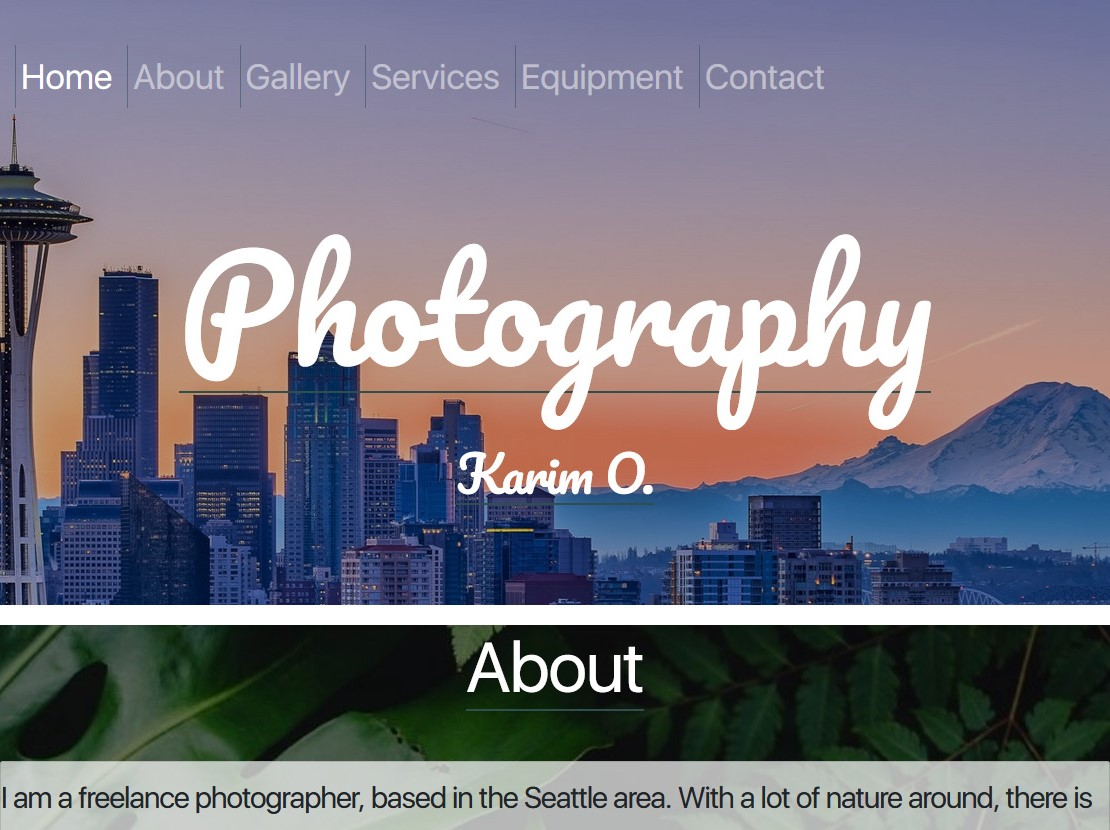
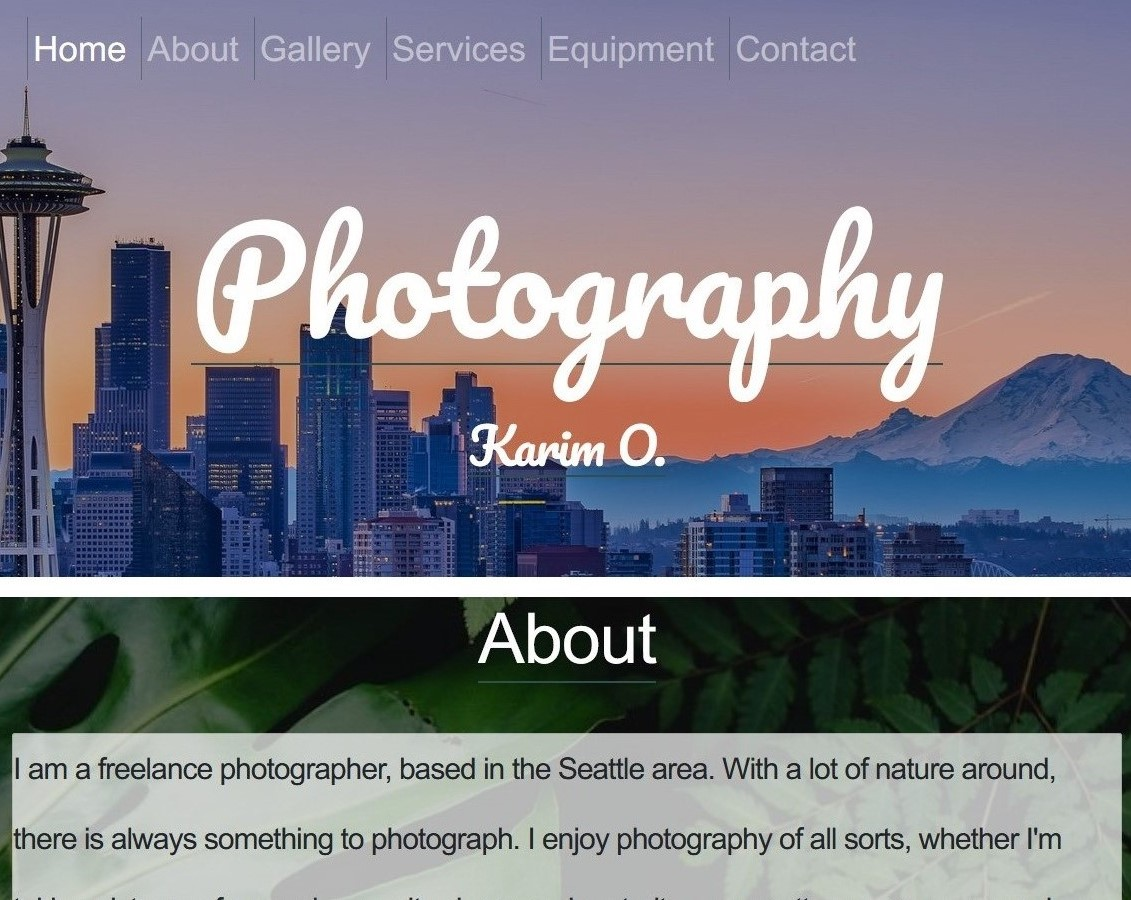
removed usage of san fran font

diff --git a/landingpage-d3/landingpage.html b/landingpage-d3/landingpage.html
@@ -14,7 +14,7 @@
     <link href="https://cdnjs.cloudflare.com/ajax/libs/twitter-bootstrap/4.5.0/css/bootstrap.min.css" rel="stylesheet">
     <!--social media-->
     <link rel="stylesheet" href="https://cdnjs.cloudflare.com/ajax/libs/font-awesome/4.7.0/css/font-awesome.min.css">
-    <link href='https://fonts.googleapis.com/css?family=Pacifico' rel='stylesheet' type='text/css'>
+    <link rel="stylesheet" type="text/css" href="//fonts.googleapis.com/css?family=Pacifico" />
     <link rel="stylesheet" href="style.css" type="text/css" />
 </head>
 
@@ -58,10 +58,10 @@
 
 
                 <div class="row" style="margin-top: 100px;">
-                    <h1 class="display-4" style="font-size: 1400%; font-family: 'Pacifico';">Photography</h1>
+                    <h1 class="display-4" style="font-size: 1400%; font-family: Pacifico;">Photography</h1>
                 </div>
                 <div class="row" style="margin-top: 50px;">
-                    <h1 style="font-size: 500%; font-family: 'Pacifico';">Karim O.</h4>
+                    <h1 style="font-size: 500%; font-family: Pacifico;">Karim O.</h4>
                 </div>
             </div>
         </div>

diff --git a/musicplayer-d9/style.css b/musicplayer-d9/style.css
@@ -1,14 +1,10 @@
+@import url(https://fonts.googleapis.com/css?family=Roboto:100);
 body,
 html {
     background: rgb(131, 58, 180);
     background: linear-gradient(90deg, rgba(131, 58, 180, 1) 0%, rgba(253, 29, 29, 1) 50%, rgba(252, 176, 69, 1) 100%);
     height: 100%;
-    font-family: 'SF Display';
-}
-
-@font-face {
-    font-family: "SF Display";
-    src: url("https://sf.abarba.me/SF-UI-Display-Regular.otf");
+    font-family: 'Roboto';
 }
 
 .card {

diff --git a/userprofile-d6/style.css b/userprofile-d6/style.css
@@ -5,15 +5,7 @@ html {
     -moz-box-sizing: border-box;
     box-sizing: border-box;
     height: 100%;
-    font-family: 'SF Display';
-}
-
-
-/** Regular */
-
-@font-face {
-    font-family: "SF Display";
-    src: url("https://sf.abarba.me/SF-UI-Display-Regular.otf");
+    font-family: 'Helvetica';
 }
 
 *,

diff --git a/payform-d2/style.css b/payform-d2/style.css
@@ -1,11 +1,6 @@
 body {
     background-color: yellowgreen;
-    font-family: "SF Display";
-}
-
-@font-face {
-    font-family: "SF Display";
-    src: url("https://sf.abarba.me/SF-UI-Display-Regular.otf");
+    font-family: "Helvetica";
 }
 
 svg {
